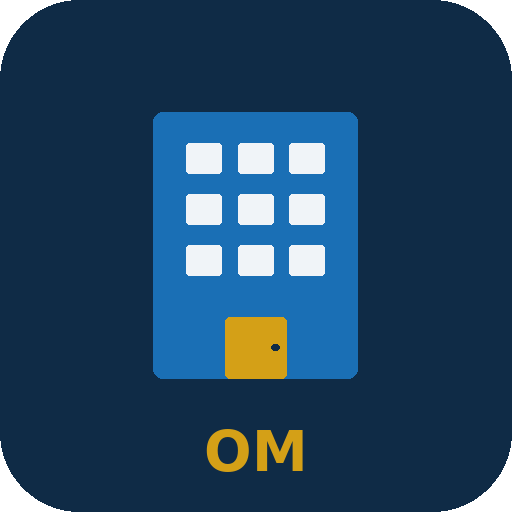
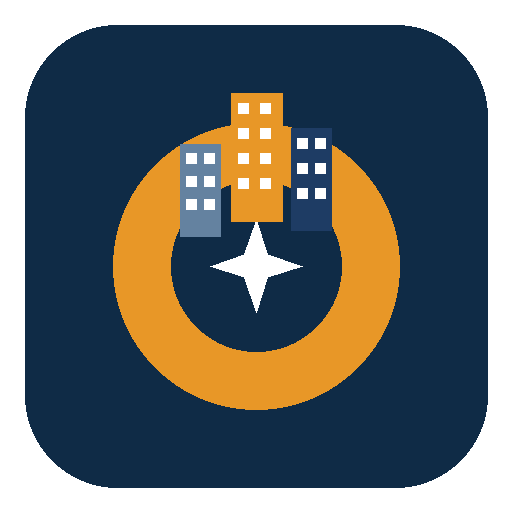
update omara-app

diff --git a/index.html b/index.html
@@ -107,7 +107,7 @@ body{font-family:'Segoe UI',Tahoma,sans-serif;background:var(--bg);color:var(--t
 <body>
 <nav class="topnav">
  <div class="d-flex align-items-center flex-wrap">
-  <div class="brand"><svg width="28" height="28" viewBox="0 0 100 100" style="margin-left:4px"><rect fill="#d4a017" width="100" height="100" rx="18"/><text x="50" y="68" text-anchor="middle" font-size="48" font-weight="bold" fill="#0f2b46">OM</text></svg> Omara Manager</div>
+  <div class="brand"><img src="icon-192.png" alt="OM" width="28" height="28" style="margin-left:4px;border-radius:6px"> Omara Manager</div>
   <div class="tnav flex-grow-1">
    <button class="tbtn active" onclick="ST('dash')"><i class="fas fa-home"></i> الرئيسية</button>
    <button class="tbtn" onclick="ST('sokan')"><i class="fas fa-users"></i> السكان</button>
@@ -837,19 +837,42 @@ function getOrCreateFolder(name) {
     <div class="mb-2">
       <label class="form-label fw-bold">حالة البوت</label>
       <div id="tgBotStatus" class="alert alert-info py-2 small">جاري التحقق...</div>
+      <div id="tgBotUsername" style="display:none"></div>
     </div>
     <div class="d-flex gap-2 flex-wrap mb-2">
       <button class="btn btn-sm" style="background:#0088cc;color:#fff" onclick="checkTgBot()"><i class="fab fa-telegram me-1"></i> تحقق من البوت</button>
-      <button class="btn btn-sm btn-ok" onclick="tgSendToAll()"><i class="fas fa-paper-plane me-1"></i> إرسال رسالة لكل السكان</button>
+      <button class="btn btn-sm btn-ok" onclick="tgSendTestMsg()"><i class="fas fa-vial me-1"></i> إرسال رسالة تجريبية</button>
       <button class="btn btn-sm btn-p" onclick="tgCheckUpdates()"><i class="fas fa-sync me-1"></i> تحديث ربط السكان</button>
     </div>
+    <hr>
+    <!-- إرسال لكل السكان أو ساكن محدد -->
     <div class="mb-2">
-      <label class="form-label">رسالة جماعية للسكان عبر تليجرام</label>
-      <textarea class="form-control" id="tgBroadcast" rows="2" placeholder="اكتب رسالة لإرسالها لجميع السكان المربوطين بالبوت..."></textarea>
+      <label class="form-label fw-bold"><i class="fas fa-paper-plane me-1"></i> إرسال رسالة تليجرام</label>
+      <select class="form-select form-select-sm mb-2" id="tgSendTarget">
+        <option value="all">📢 كل السكان المربوطين</option>
+        <option value="status_all">📊 إرسال كشف حساب لكل السكان</option>
+      </select>
+      <textarea class="form-control" id="tgBroadcast" rows="2" placeholder="اكتب رسالة لإرسالها..."></textarea>
     </div>
-    <button class="btn w-100" style="background:#0088cc;color:#fff" onclick="tgBroadcastSend()"><i class="fab fa-telegram me-1"></i> إرسال الرسالة الجماعية</button>
-    <div class="alert alert-info py-2 small mt-2"><i class="fas fa-lightbulb me-1"></i> السكان اللي أرقامهم مسجلة هيتبعتلهم رسالة واتساب فيها لينك البوت. أي ساكن يفتح اللينك ويضغط Start هيترتبط تلقائياً بحسابه.</div>
-    <button class="btn btn-wa w-100 mt-1" onclick="tgSendBotLinkWA()"><i class="fab fa-whatsapp me-1"></i> أرسل لينك البوت لكل السكان عبر واتساب</button>
+    <button class="btn w-100" style="background:#0088cc;color:#fff" onclick="tgSmartSend()"><i class="fab fa-telegram me-1"></i> إرسال</button>
+    <hr>
+    <!-- ربط السكان -->
+    <div class="mb-2">
+      <label class="form-label fw-bold"><i class="fas fa-link me-1"></i> ربط السكان بالبوت</label>
+      <div id="tgLinkedCount" class="small text-muted mb-1"></div>
+      <div class="alert alert-light py-2 small border">
+        <strong>طريقة الربط:</strong><br>
+        1. ابعت للساكن لينك البوت عبر واتساب (الزر تحت)<br>
+        2. الساكن يضغط Start في تليجرام ويتربط تلقائياً<br>
+        3. لو فعّلت الـ Webhook مش لازم البرنامج يكون مفتوح
+      </div>
+      <div class="mb-2">
+        <label class="form-label fw-bold"><i class="fas fa-user-shield me-1"></i> ربط حساب الأدمن بالبوت</label>
+        <div id="adminTgStatus" class="small text-muted mb-1"></div>
+        <button class="btn btn-sm btn-outline-primary" onclick="tgLinkAdmin()"><i class="fab fa-telegram me-1"></i> ربط حسابي كأدمن</button>
+      </div>
+    </div>
+    <button class="btn btn-wa w-100" onclick="tgSendBotLinkWA()"><i class="fab fa-whatsapp me-1"></i> أرسل لينك البوت لكل السكان عبر واتساب</button>
    </div>
    <div class="sc">
     <div class="stitle"><i class="fas fa-info-circle"></i> معلومات النظام</div>
@@ -1036,7 +1059,7 @@ function getOrCreateFolder(name) {
 <div id="authGate" style="position:fixed;inset:0;background:#f0f4f8;z-index:99999;display:flex;align-items:center;justify-content:center;direction:rtl;">
   <div style="background:#fff;padding:28px;border-radius:14px;box-shadow:0 4px 20px rgba(0,0,0,.12);width:92%;max-width:360px;">
     <div class="text-center mb-3">
-      <svg width="56" height="56" viewBox="0 0 100 100"><rect fill="#d4a017" width="100" height="100" rx="18"/><text x="50" y="68" text-anchor="middle" font-size="48" font-weight="bold" fill="#0f2b46">OM</text></svg>
+      <img src="icon-192.png" alt="Omara Manager" width="80" height="80" style="border-radius:16px">
       <h5 class="fw-bold mt-2 mb-0" style="color:#0f2b46">Omara Manager</h5>
       <div class="text-muted small">نظام إدارة اتحاد الملاك</div>
     </div>
@@ -1611,7 +1634,16 @@ function rSokan(){
         ? `<div class="ditem" style="background:#ecfdf5;border-color:#a7f3d0"><div><i class="fas fa-check-circle text-success me-1"></i><span class="text-success">${d.desc||'—'} — مسدد بالكامل (${d.paidAmount||0} ج.م)${d.paidByAdvance?' <span class=\"badge bg-primary\" style=\"font-size:.6rem\">من الرصيد المقدم</span>':''}</span></div><button class="btn btn-sm btn-rd" onclick="rmDebt(${i},${di},'monthly')" title="حذف هذا السطر"><i class="fas fa-trash"></i></button></div>`
         : `<div class="ditem"><div><i class="fas fa-calendar-times text-danger me-1"></i>${d.desc||'—'} — <strong>${Math.round(parseFloat(d.amount))} ج.م</strong></div><button class="btn btn-sm btn-rd" onclick="rmDebt(${i},${di},'monthly')" title="حذف / إعفاء من هذا الشهر"><i class="fas fa-trash"></i></button></div>`
     ) : []),
-    ...(r.manualDebts&&r.manualDebts.length ? r.manualDebts.map((d,di)=>`<div class="ditem" style="background:#fff8e1;border-color:#fde68a" ondblclick="openEditDebt(${i},${di})" title="انقر مرتين للتعديل"><div><i class="fas fa-exclamation-triangle text-warning me-1"></i><span class="badge bg-warning text-dark me-1" style="font-size:.65rem">يدوي</span>${d.desc||'—'} — <strong>${Math.round(parseFloat(d.amount))} ج.م</strong><span class="text-muted ms-1" style="font-size:.68rem">(${d.addedDate||''})</span></div><div class="d-flex gap-1"><button class="btn btn-sm btn-outline-warning py-0 px-1" onclick="event.stopPropagation();openEditDebt(${i},${di})" title="تعديل"><i class="fas fa-pencil-alt"></i></button><button class="btn btn-sm btn-rd" onclick="rmDebt(${i},${di},'manual')" title="حذف هذه المتأخرة اليدوية"><i class="fas fa-trash"></i></button></div></div>`) : [])
+    ...(r.manualDebts&&r.manualDebts.length ? r.manualDebts.map((d,di)=>{
+        const da = parseFloat(d.amount);
+        const orig = d.originalAmount || da;
+        if(da <= 0 && d.paidByAdvance) {
+            return `<div class="ditem" style="background:#ecfdf5;border-color:#a7f3d0"><div><i class="fas fa-check-circle text-success me-1"></i><span class="badge bg-warning text-dark me-1" style="font-size:.65rem">يدوي</span>${d.desc||'—'} — مسدد بالكامل من الرصيد المقدم (${Math.round(orig)} ج.م) <span class="badge bg-primary" style="font-size:.6rem">من الرصيد المقدم</span></div><button class="btn btn-sm btn-rd" onclick="rmDebt(${i},${di},'manual')"><i class="fas fa-trash"></i></button></div>`;
+        } else if(da < orig && d.paidByAdvance) {
+            return `<div class="ditem" style="background:#fff8e1;border-color:#fde68a"><div><i class="fas fa-exclamation-triangle text-warning me-1"></i><span class="badge bg-warning text-dark me-1" style="font-size:.65rem">يدوي</span>${d.desc||'—'} — <strong>${Math.round(da)} ج.م</strong> (أصل: ${Math.round(orig)}، خُصم ${Math.round(orig-da)} من المقدم)<span class="text-muted ms-1" style="font-size:.68rem">(${d.addedDate||''})</span></div><div class="d-flex gap-1"><button class="btn btn-sm btn-outline-warning py-0 px-1" onclick="event.stopPropagation();openEditDebt(${i},${di})"><i class="fas fa-pencil-alt"></i></button><button class="btn btn-sm btn-rd" onclick="rmDebt(${i},${di},'manual')"><i class="fas fa-trash"></i></button></div></div>`;
+        }
+        return `<div class="ditem" style="background:#fff8e1;border-color:#fde68a" ondblclick="openEditDebt(${i},${di})" title="انقر مرتين للتعديل"><div><i class="fas fa-exclamation-triangle text-warning me-1"></i><span class="badge bg-warning text-dark me-1" style="font-size:.65rem">يدوي</span>${d.desc||'—'} — <strong>${Math.round(da)} ج.م</strong><span class="text-muted ms-1" style="font-size:.68rem">(${d.addedDate||''})</span></div><div class="d-flex gap-1"><button class="btn btn-sm btn-outline-warning py-0 px-1" onclick="event.stopPropagation();openEditDebt(${i},${di})" title="تعديل"><i class="fas fa-pencil-alt"></i></button><button class="btn btn-sm btn-rd" onclick="rmDebt(${i},${di},'manual')" title="حذف هذه المتأخرة اليدوية"><i class="fas fa-trash"></i></button></div></div>`;
+    }) : [])
   ].join('');
   const ph=(r.payments&&r.payments.length)?r.payments.map((p,pi)=>{
     const methIcon={'نقدي':'💵','انستاباي':'📱','فودافون كاش':'📲','تحويل بنكي':'🏦','شيك':'📄'};
@@ -1644,6 +1676,7 @@ function rSokan(){
           <button class="btn btn-sm btn-wa act-btn" onclick="sendWA(${i})" title="إرسال رسالة تذكير سريعة بالمتأخرات عبر الواتساب"><i class="fab fa-whatsapp"></i></button>
           <button class="btn btn-sm btn-p act-btn" onclick="openER(${i})" title="تعديل بيانات الساكن والوحدات والإعفاءات"><i class="fas fa-edit"></i></button>
           <button class="btn btn-sm act-btn" style="background:#6366f1;color:#fff" onclick="openShr(${i})" title="توليد رابط كشف الحساب الآمن والمستقل لهذا الساكن"><i class="fas fa-share-alt"></i></button>
+          ${r.telegramChatId?`<button class="btn btn-sm act-btn" style="background:#0088cc;color:#fff" onclick="tgSendToResident(${i},'حالة حسابك:\\n'+rDueSummary(D.sokan[${i}]))" title="إرسال كشف حساب تليجرام"><i class="fab fa-telegram"></i></button>`:`<button class="btn btn-sm act-btn btn-outline-secondary" onclick="tgLinkResident(${i})" title="ربط الساكن بتليجرام"><i class="fab fa-telegram"></i></button>`}
           <button class="btn btn-sm btn-rd act-btn" onclick="rmRes(${i})" title="حذف الساكن نهائياً"><i class="fas fa-trash"></i></button>
         </div>
       </div>
@@ -2174,10 +2207,17 @@ function recalculateAll(){
     });
     
     // 2. Wipe out auto-generated monthly debts to prevent duplicates while preserving manual debts
+    //    *** مهم: إعادة المتأخرات اليدوية لقيمتها الأصلية قبل إعادة الحساب ***
     D.sokan.forEach(r => {
         r.debts = (r.debts || []).filter(d => !d.isMonthlyDue);
         r.advance = 0;
-        if(!r.manualDebts) r.manualDebts = []; // ensure the manual array always exists — never cleared
+        if(!r.manualDebts) r.manualDebts = [];
+        // استعادة المبالغ الأصلية للمتأخرات اليدوية اللي ممكن تكون اتخصمت في حساب سابق
+        r.manualDebts.forEach(d => {
+            if(d.originalAmount === undefined) d.originalAmount = parseFloat(d.amount) || 0;
+            d.amount = d.originalAmount;
+            d.paidByAdvance = false;
+        });
     });
     
     // 3. Chronologically calculate distributions and add as debts
@@ -2284,7 +2324,7 @@ function recalculateAll(){
         // 4b. Advance carry-over: apply accumulated advance to monthly dues AND manual debts
         if(r.advance > 0){
             let rem = r.advance;
-            // أولاً: تطبيق الرصيد المقدم على المستحقات الشهرية
+            // أولاً: المستحقات الشهرية
             if(r.debts && r.debts.length > 0){
                 const monthlyOnly = r.debts.filter(d=>d.isMonthlyDue);
                 for(let i=0; i<monthlyOnly.length && rem>0; i++){
@@ -2296,16 +2336,15 @@ function recalculateAll(){
                 }
                 r.debts = r.debts.filter(d => parseFloat(d.amount) > 0.01 || d.isExemptEntry || d.isPaidEntry);
             }
-            // ثانياً: تطبيق الفائض على المتأخرات اليدوية
+            // ثانياً: المتأخرات اليدوية — نعدل amount بس نحتفظ بالعنصر وبـ originalAmount
             if(rem > 0.01 && r.manualDebts && r.manualDebts.length > 0){
                 for(let i=0; i<r.manualDebts.length && rem>0; i++){
                     const d = r.manualDebts[i];
                     const da = parseFloat(d.amount);
                     if(da <= 0) continue;
-                    if(rem >= da){ rem -= da; d.amount = 0; }
-                    else { d.amount = da - rem; rem = 0; }
+                    if(rem >= da){ rem -= da; d.amount = 0; d.paidByAdvance = true; }
+                    else { d.amount = da - rem; d.paidByAdvance = true; rem = 0; }
                 }
-                r.manualDebts = r.manualDebts.filter(d => parseFloat(d.amount) > 0.01);
             }
             r.advance = rem;
         }
@@ -3860,19 +3899,148 @@ async function tgApiCall(method, params = {}) {
     }
 }
 
+let _tgBotUsername = '';
+
 async function checkTgBot() {
     const el = document.getElementById('tgBotStatus');
     el.className = 'alert alert-info py-2 small';
     el.textContent = 'جاري التحقق من البوت...';
     const res = await tgApiCall('getMe');
     if(res.ok) {
+        _tgBotUsername = res.result.username;
+        document.getElementById('tgBotUsername').textContent = _tgBotUsername;
         el.className = 'alert alert-success py-2 small';
-        el.innerHTML = `<i class="fab fa-telegram me-1"></i> البوت متصل: <strong>@${res.result.username}</strong> — ${res.result.first_name}`;
-        // Start polling for updates
+        el.innerHTML = `<i class="fab fa-telegram me-1"></i> البوت متصل: <strong>@${_tgBotUsername}</strong> — ${res.result.first_name}`;
+        // Set Arabic bot commands
+        tgApiCall('setMyCommands', {commands: [
+            {command:'start', description:'بدء استخدام البوت وربط حسابك'},
+            {command:'status', description:'عرض حالة حسابك والمتأخرات'},
+            {command:'months', description:'تفاصيل المصاريف الشهرية'},
+            {command:'report', description:'إبلاغ عن عطل'},
+            {command:'emergency', description:'أرقام الطوارئ'}
+        ], language_code: 'ar'});
+        // Also set as default commands
+        tgApiCall('setMyCommands', {commands: [
+            {command:'start', description:'بدء استخدام البوت وربط حسابك'},
+            {command:'status', description:'عرض حالة حسابك والمتأخرات'},
+            {command:'months', description:'تفاصيل المصاريف الشهرية'},
+            {command:'report', description:'إبلاغ عن عطل'},
+            {command:'emergency', description:'أرقام الطوارئ'}
+        ]});
         tgStartPolling();
+        tgUpdateUI();
     } else {
         el.className = 'alert alert-danger py-2 small';
         el.textContent = 'خطأ في الاتصال بالبوت: ' + (res.description || 'تحقق من مفتاح API');
+    }
+}
+
+function tgUpdateUI() {
+    // Update send target dropdown with individual residents
+    const sel = document.getElementById('tgSendTarget');
+    if(!sel) return;
+    // Keep first two options, remove the rest
+    while(sel.options.length > 2) sel.remove(2);
+    const connected = D.sokan.filter(r => r.telegramChatId);
+    if(connected.length) {
+        const sep = document.createElement('option');
+        sep.disabled = true; sep.textContent = '── ساكن محدد ──';
+        sel.appendChild(sep);
+        connected.forEach((r, i) => {
+            const opt = document.createElement('option');
+            opt.value = 'resident_' + D.sokan.indexOf(r);
+            opt.textContent = `👤 ${r.name}`;
+            sel.appendChild(opt);
+        });
+    }
+    // Update linked count
+    const countEl = document.getElementById('tgLinkedCount');
+    if(countEl) {
+        const linked = D.sokan.filter(r => r.telegramChatId).length;
+        countEl.innerHTML = `<i class="fab fa-telegram me-1" style="color:#0088cc"></i> ${linked} من ${D.sokan.length} ساكن مربوط بالبوت`;
+    }
+    tgUpdateAdminStatus();
+}
+
+async function tgSmartSend() {
+    const target = document.getElementById('tgSendTarget').value;
+    if(target === 'status_all') {
+        return tgSendToAll();
+    }
+    if(target === 'all') {
+        return tgBroadcastSend();
+    }
+    if(target.startsWith('resident_')) {
+        const idx = parseInt(target.replace('resident_', ''));
+        const msg = document.getElementById('tgBroadcast').value.trim();
+        if(!msg) return T('اكتب رسالة أولاً','e');
+        const r = D.sokan[idx];
+        if(!r || !r.telegramChatId) return T('الساكن غير مربوط بتليجرام','e');
+        const res = await tgApiCall('sendMessage', {chat_id: r.telegramChatId, text: `📩 رسالة من إدارة العمارة:\n\n${msg}`});
+        if(res.ok) {
+            T(`✅ تم إرسال الرسالة إلى ${r.name}`,'s');
+            document.getElementById('tgBroadcast').value = '';
+        } else {
+            T('❌ فشل الإرسال: ' + (res.description||''),'e');
+        }
+    }
+}
+
+function rDueSummary(r) {
+    let s = '';
+    (r.debts||[]).forEach(d => {
+        if(parseFloat(d.amount) > 0 && !d.isPaidEntry && !d.isExemptEntry) s += `• ${d.desc}: ${Math.round(parseFloat(d.amount))} ج.م\n`;
+    });
+    (r.manualDebts||[]).forEach(d => {
+        if(parseFloat(d.amount) > 0) s += `• ${d.desc} (يدوي): ${Math.round(parseFloat(d.amount))} ج.م\n`;
+    });
+    const adv = r.advance || 0;
+    if(adv > 0) s += `✅ رصيد مقدم: ${Math.round(adv)} ج.م`;
+    return s || '✅ حسابك مسدد بالكامل';
+}
+
+function tgLinkResident(idx) {
+    const r = D.sokan[idx];
+    if(!r) return;
+    const botName = _tgBotUsername || 'OmaraManagerBot';
+    const link = `https://t.me/${botName}?start=${r.id}`;
+    const ph = fmtPhone(r.phone);
+    if(ph) {
+        const msg = `السلام عليكم الأستاذ/ ${r.name}\n\nلربط حسابك ببوت إدارة العمارة على تليجرام اضغط الرابط:\n${link}`;
+        window.open(`https://wa.me/${ph}?text=${encodeURIComponent(msg)}`, '_blank');
+        T('تم فتح واتساب لإرسال لينك الربط — بعد ما الساكن يضغط Start ارجع هنا واضغط تحديث ربط السكان','s');
+    } else {
+        // Copy link to clipboard
+        navigator.clipboard.writeText(link).then(() => T(`تم نسخ رابط الربط — ابعته للساكن: ${link}`,'s')).catch(() => {
+            prompt('انسخ الرابط ده وابعته للساكن:', link);
+        });
+    }
+}
+
+async function tgSendTestMsg() {
+    const connected = D.sokan.filter(r => r.telegramChatId);
+    if(!connected.length) return T('لا يوجد سكان مربوطين بالبوت — اربط ساكن أولاً','e');
+    const first = connected[0];
+    const res = await tgApiCall('sendMessage', {chat_id: first.telegramChatId, text: '🔔 رسالة تجريبية من Omara Manager\n\nلو وصلتك الرسالة دي يبقى البوت شغال تمام! ✅'});
+    if(res.ok) T(`✅ تم إرسال رسالة تجريبية إلى ${first.name}`,'s');
+    else T('❌ فشل الإرسال: ' + (res.description||''),'e');
+}
+
+// Admin Telegram linking
+async function tgLinkAdmin() {
+    const botName = _tgBotUsername || 'OmaraManagerBot';
+    const link = `https://t.me/${botName}?start=ADMIN_LINK`;
+    window.open(link, '_blank');
+    T('اضغط Start في تليجرام ثم ارجع هنا واضغط "تحديث ربط السكان"', 'i');
+}
+
+function tgUpdateAdminStatus() {
+    const el = document.getElementById('adminTgStatus');
+    if(!el) return;
+    if(D.adminTelegramChatId) {
+        el.innerHTML = '<span class="text-success"><i class="fas fa-check-circle me-1"></i> حسابك مربوط كأدمن — ستصلك إشعارات البلاغات</span>';
+    } else {
+        el.innerHTML = '<span class="text-muted">غير مربوط — اربط حسابك لاستقبال إشعارات البلاغات والأعطال</span>';
     }
 }
 
@@ -3889,14 +4057,49 @@ async function tgCheckUpdates() {
     res.result.forEach(upd => {
         _tgOffset = upd.update_id + 1;
         const msg = upd.message;
-        if(!msg || !msg.text) return;
+        if(!msg) return;
         const chatId = msg.chat.id;
-        const text = msg.text.trim();
+        const text = (msg.text || '').trim();
+
+        // Handle photo messages (fault reports with photos)
+        if(msg.photo && msg.photo.length > 0) {
+            const photoReporter = D.sokan.find(s => s.telegramChatId === chatId);
+            if(photoReporter) {
+                const caption = msg.caption || 'صورة مرفقة';
+                const photoFileId = msg.photo[msg.photo.length - 1].file_id;
+                if(!D.sianaLog) D.sianaLog = [];
+                D.sianaLog.push({
+                    desc: `بلاغ مصور من ${photoReporter.name}: ${caption}`,
+                    amount: 0,
+                    date: new Date().toISOString().split('T')[0],
+                    type: 'report',
+                    reportedBy: photoReporter.name,
+                    telegramReport: true,
+                    photoFileId: photoFileId
+                });
+                SD(D);
+                tgApiCall('sendMessage', {chat_id: chatId, text: '✅ تم تسجيل البلاغ والصورة بنجاح. شكراً لتعاونكم!'});
+                T(`📩 بلاغ مصور من ${photoReporter.name}: ${caption}`, 'i');
+                // Forward to admin
+                if(D.adminTelegramChatId) {
+                    tgApiCall('forwardMessage', {chat_id: D.adminTelegramChatId, from_chat_id: chatId, message_id: msg.message_id});
+                    tgApiCall('sendMessage', {chat_id: D.adminTelegramChatId, text: `🔔 بلاغ مصور من ${photoReporter.name}: ${caption}`});
+                }
+            }
+            if(!text) return;
+        }
 
         // /start command with phone or resident id
         if(text.startsWith('/start')) {
             const parts = text.split(' ');
             const param = parts[1] || '';
+            // Admin linking
+            if(param === 'ADMIN_LINK') {
+                D.adminTelegramChatId = chatId;
+                linked++;
+                tgApiCall('sendMessage', {chat_id: chatId, text: '✅ تم ربط حسابك كأدمن بنجاح!\n\nستصلك إشعارات البلاغات والأعطال من السكان.'});
+                return;
+            }
             // Try to match by phone number or resident id
             let found = null;
             if(param) {
@@ -4023,6 +4226,10 @@ async function tgCheckUpdates() {
                     text: '✅ تم تسجيل البلاغ بنجاح وسيتم إبلاغ إدارة العمارة. شكراً لتعاونكم!'
                 });
                 T(`📩 بلاغ جديد من ${r.name} عبر تليجرام: ${text.substring(0,50)}...`, 'i');
+                // Forward to admin via Telegram
+                if(D.adminTelegramChatId) {
+                    tgApiCall('sendMessage', {chat_id: D.adminTelegramChatId, text: `🔔 بلاغ جديد من ${r.name}:\n\n${text}`});
+                }
             }
         }
 
@@ -4126,7 +4333,8 @@ function tgSendBotLinkWA() {
     const ph = fmtPhone(first.phone);
     if(!ph) return T('رقم واتساب غير صالح','e');
 
-    const botLink = `https://t.me/OmaraManagerBot?start=${first.id}`;
+    const botName = _tgBotUsername || 'OmaraManagerBot';
+    const botLink = `https://t.me/${botName}?start=${first.id}`;
     const msg = `السلام عليكم الأستاذ/ ${first.name}\n\n🏢 نظام إدارة اتحاد الملاك (Omara Manager) أصبح متاح على تليجرام!\n\nاضغط على الرابط التالي للاشتراك:\n${botLink}\n\nمن خلال البوت تقدر:\n✅ تشوف حسابك ومتأخراتك\n📅 تفاصيل المصاريف الشهرية\n🔧 إبلاغ عن أعطال\n🚨 أرقام طوارئ\n\nشكراً لتعاونكم 🙏`;
 
     window.open(`https://wa.me/${ph}?text=${encodeURIComponent(msg)}`, '_blank');
